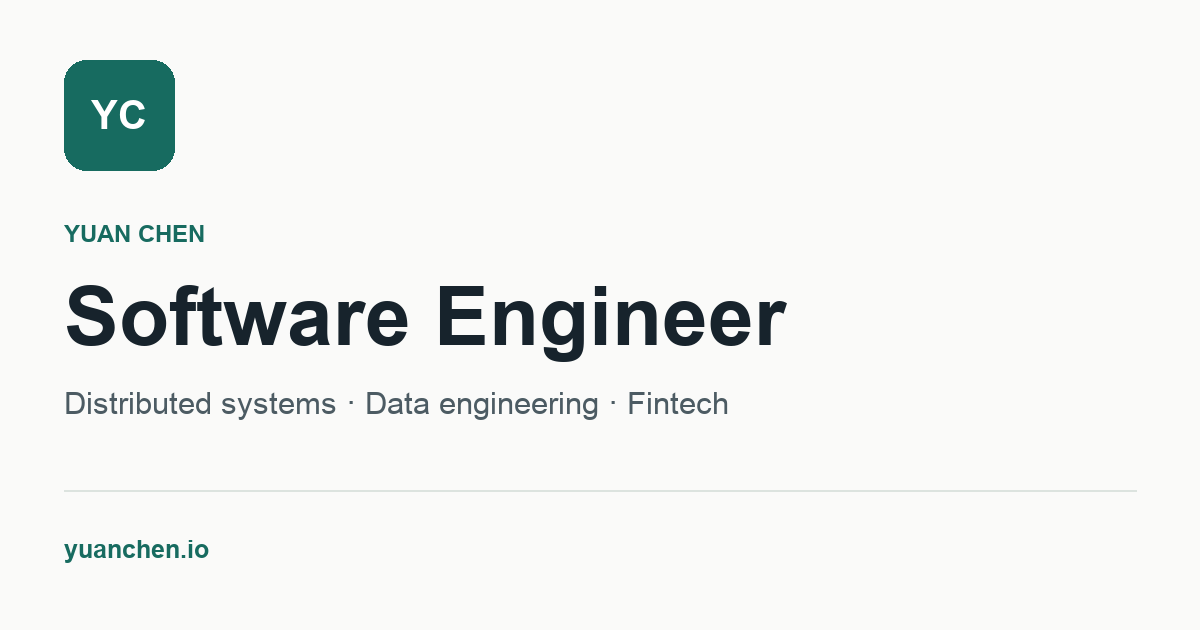
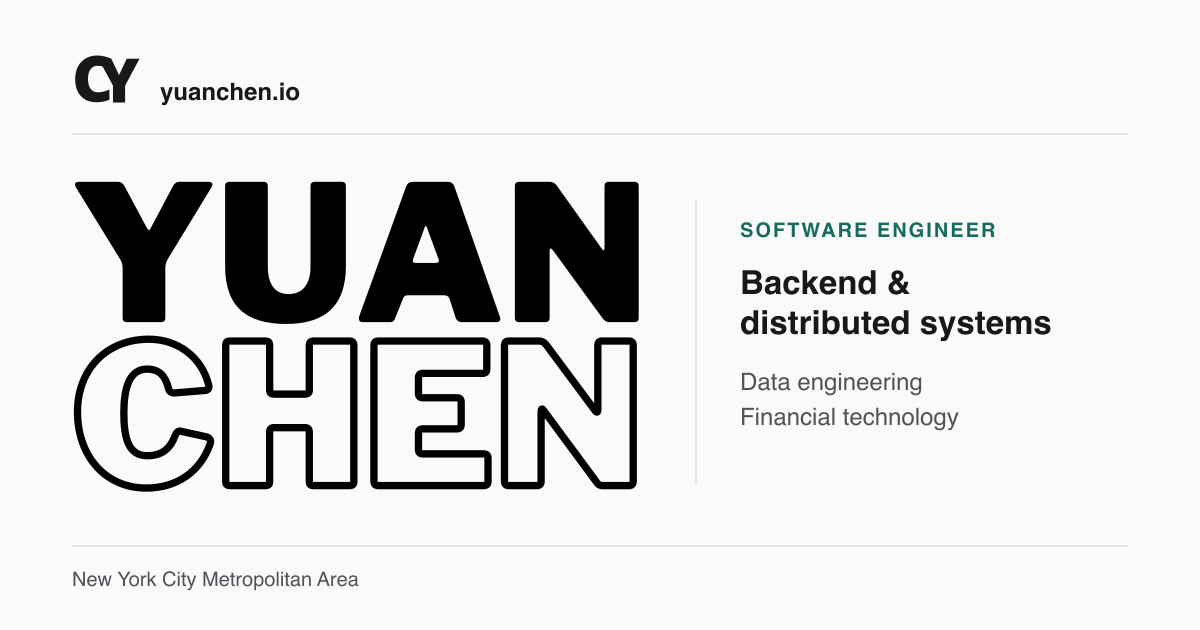
feat: integrate CY monogram and stacked Yuan Chen wordmark

Changed region(s): [[0.0308, 0.0905, 0.925, 0.7841], [0.0308, 0.8444, 0.925, 0.9349], [0.6167, 0.3317, 0.8325, 0.3921]]

diff --git a/tests/e2e/interaction.spec.ts b/tests/e2e/interaction.spec.ts
@@ -75,3 +75,22 @@ test("engineering case study is navigable and fits the viewport", async ({ page 
   await page.getByRole("link", { name: "All engineering notes" }).click();
   await expect(page).toHaveURL(/#notes$/);
 });
+
+test("brand artwork is visible, accessible and theme-aware", async ({ page }) => {
+  await page.emulateMedia({ colorScheme: "dark" });
+  await page.goto("/");
+  const heading = page.getByRole("heading", { name: "Yuan Chen", level: 1 });
+  const wordmark = heading.locator(".hero-wordmark");
+  const mark = page.locator(".site-brand-mark");
+  await expect(heading).toBeVisible();
+  await expect(wordmark).toBeVisible();
+  await expect(mark).toHaveCSS("filter", "invert(1)");
+  await expect(wordmark).toHaveCSS("filter", "invert(1)");
+  const size = await wordmark.evaluate((image: HTMLImageElement) => ({ ready: image.complete && image.naturalWidth > 0, width: image.getBoundingClientRect().width }));
+  expect(size.ready).toBe(true);
+  expect(size.width).toBeGreaterThan(100);
+  await page.getByRole("button", { name: "Toggle dark mode" }).click();
+  await expect(wordmark).toHaveCSS("filter", "none");
+  await expect(mark).toHaveCSS("filter", "none");
+  await expect(page.getByRole("link", { name: "Yuan Chen, home" })).toBeVisible();
+});

diff --git a/src/styles/global.css b/src/styles/global.css
@@ -318,3 +318,38 @@ a:focus-visible, button:focus-visible {
   width: clamp(1.5rem, 4vw, 1.875rem);
   height: clamp(1.5rem, 4vw, 1.875rem);
 }
+
+/* Personal brand: supplied CY monogram and stacked YUAN / CHEN wordmark. */
+.site-brand-mark {
+  width: 2.5rem;
+  height: auto;
+  flex: none;
+}
+.hero-wordmark {
+  display: block;
+  width: min(100%, 22rem);
+  height: auto;
+}
+.dark .site-brand-mark, .dark .hero-wordmark { filter: invert(1); }
+.brand-heading-text {
+  position: absolute;
+  width: 1px;
+  height: 1px;
+  padding: 0;
+  margin: -1px;
+  overflow: hidden;
+  clip-path: inset(50%);
+  white-space: nowrap;
+}
+@media print {
+  .hero-wordmark { display: none; }
+  .brand-heading-text {
+    position: static;
+    width: auto;
+    height: auto;
+    margin: 0;
+    overflow: visible;
+    clip-path: none;
+    white-space: normal;
+  }
+}

diff --git a/README.md b/README.md
@@ -68,3 +68,9 @@ Case studies are prerendered at `/notes/<slug>/` with their own canonical URLs, 
 ## Contact icons
 
 The GitHub, LinkedIn, Medium and Google Scholar SVG marks in `ContactIcon.astro` are sourced from [Simple Icons 13.0.0](https://github.com/simple-icons/simple-icons/tree/13.0.0/icons) ([CC0 license](https://github.com/simple-icons/simple-icons/blob/13.0.0/LICENSE.md)). Brand marks identify the linked services and are not an indication of endorsement. The email envelope is a generic icon. All SVGs are local, use theme colors, and are decorative within accessible labeled controls.
+
+## Personal identity
+
+The CY monogram and stacked YUAN / CHEN wordmark derive from the owner-supplied artwork (visually traced as transparent SVGs). The monogram is used for navigation and the theme-aware favicon; the wordmark is the hero identity. Screen readers and print retain the semantic text heading. The social preview card is generated from `assets/brand/og-source.svg` at 1200 × 630 pixels, and exported to `public/og.png`.
+
+To regenerate the card after an intentional brand change: `rsvg-convert -o public/og.png assets/brand/og-source.svg`. Update the screenshot baselines only after reviewing the change.
